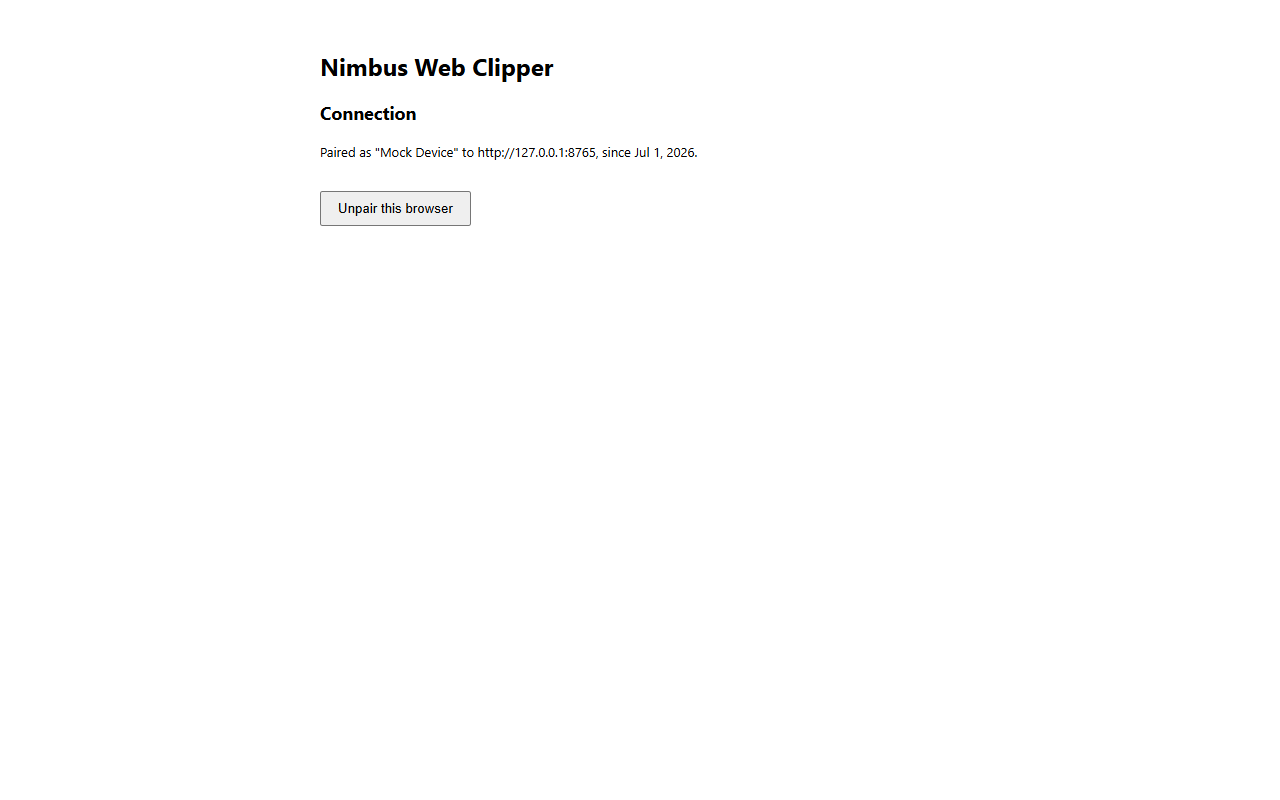
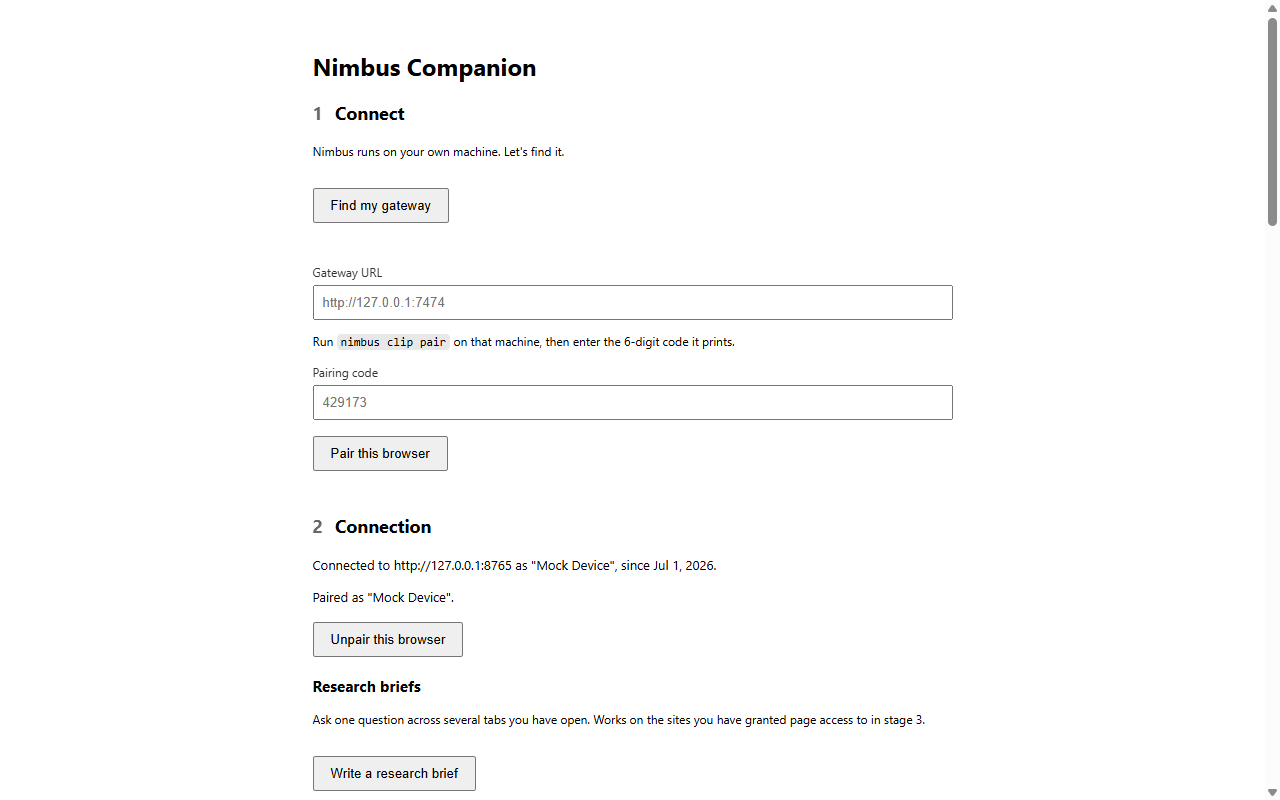
chore(brand): rename the extension to Nimbus Companion (#119)
"Nimbus Web Clipper" collided in every store search with Nimbus Web Inc's
unrelated "Web Clipper (Nimbus)" (~50k users). The new name keeps the tie to
the Nimbus gateway, leaves the clipper category, and matches what C1-C7 made
of the extension: clipping is one capability among several.

The rename is the manifest `name` + description, the popup/options headings,
the store listing + privacy policy, workflow/release titles, docs prose, and
regenerated promo tiles and store screenshots.

Deliberately unchanged: the Firefox gecko id (changing it orphans installs),
the Chrome item id, the repo slug, package name, Sonar key and zip names, and
"clip" as a verb. ROADMAP.md records the decision and the alternatives.

diff --git a/test/unit/manifest.test.ts b/test/unit/manifest.test.ts
@@ -6,7 +6,12 @@ describe("composeManifest", () => {
     for (const target of BROWSER_TARGETS) {
       const m = composeManifest(target, "1.2.3");
       expect(m.manifest_version).toBe(3);
-      expect(m.name).toBe("Nimbus Web Clipper");
+      expect(m.name).toBe("Nimbus Companion");
+      expect(m.description).toBe(
+        "Bring your local-first Nimbus index to the page you're on — clip it, ask about it, see what Nimbus already knows.",
+      );
+      // The Chrome Web Store rejects an upload whose description exceeds 132 characters.
+      expect(m.description.length).toBeLessThanOrEqual(132);
       expect(m.version).toBe("1.2.3");
       // Loopback only — the extension never talks to a remote origin (I6).
       expect(m.host_permissions).toEqual(["http://127.0.0.1/*", "http://localhost/*"]);

diff --git a/src/manifest/manifest.ts b/src/manifest/manifest.ts
@@ -78,10 +78,10 @@ export interface WebClipperManifest {
 export function composeManifest(target: BrowserTarget, version: string): WebClipperManifest {
   const base = {
     manifest_version: 3 as const,
-    name: "Nimbus Web Clipper",
+    name: "Nimbus Companion",
     version,
     description:
-      "Clip articles and selections from the browser into your local-first Nimbus index.",
+      "Bring your local-first Nimbus index to the page you're on — clip it, ask about it, see what Nimbus already knows.",
     // Minimal, capability-scoped: storage holds the paired bearer token; activeTab +
     // scripting let the popup capture the current page on user action (no broad host
     // access); alarms wakes the SW to drain the offline retry queue; contextMenus

diff --git a/src/options/options.html b/src/options/options.html
@@ -3,12 +3,12 @@
   <head>
     <meta charset="utf-8" />
     <meta name="viewport" content="width=device-width, initial-scale=1" />
-    <title>Nimbus Web Clipper — Options</title>
+    <title>Nimbus Companion — Options</title>
     <link rel="stylesheet" href="options.css" />
   </head>
   <body>
     <main class="options">
-      <h1>Nimbus Web Clipper</h1>
+      <h1>Nimbus Companion</h1>
 
       <section id="stage-connect" class="stage">
         <h2><span class="stage__num">1</span> Connect</h2>

diff --git a/scripts/gen-promo.ts b/scripts/gen-promo.ts
@@ -88,7 +88,7 @@ function html(s: TileSpec): string {
     <div class="tile">
       <div class="mark">${MARK}</div>
       <div class="copy">
-        <div class="title">Nimbus Web&nbsp;Clipper</div>
+        <div class="title">Nimbus Companion</div>
         <div class="tagline">Clip what you read into your private, local-first index.</div>
         <div class="chips">
           <span class="chip">Local-first</span>

diff --git a/src/popup/popup.html b/src/popup/popup.html
@@ -8,7 +8,7 @@
   </head>
   <body>
     <main class="popup">
-      <h1 class="popup__title">Nimbus Web Clipper</h1>
+      <h1 class="popup__title">Nimbus Companion</h1>
       <label class="popup__label" for="tags">Tags (comma-separated)</label>
       <input id="tags" class="popup__tags" type="text" placeholder="research, work" />
       <div class="popup__actions">

diff --git a/scripts/gen-icons.py b/scripts/gen-icons.py
@@ -1,5 +1,5 @@
 #!/usr/bin/env python3
-"""Generate the Nimbus Web Clipper extension icons from scratch.
+"""Generate the Nimbus Companion extension icons from scratch.
 
 No third-party deps: shapes are rasterized with 4x supersampling and encoded to
 PNG via the stdlib `zlib`. Concept: a light Nimbus cloud + a bookmark/clip tag on

diff --git a/ROADMAP.md b/ROADMAP.md
@@ -1,4 +1,4 @@
-# Nimbus Web Clipper — Roadmap
+# Nimbus Companion — Roadmap
 
 > **Status:** a direction, not a commitment. This roadmap is vision-first: it
 > states the end-state we're building toward, then breaks it into phases detailed
@@ -47,7 +47,7 @@ Most clippers are filing cabinets. You clip a page, it drops into a folder or a
 tag you never open again, and the value of the capture decays to zero the moment
 the tab closes. The clipper becomes a place things go to be forgotten.
 
-Nimbus Web Clipper is the opposite. A clip is not filed — it is **fed to a
+Nimbus Companion is the opposite. A clip is not filed — it is **fed to a
 private recall engine** that runs on your machine. What you save today makes what
 you read tomorrow smarter: the moment you land on a page, the extension can tell
 you *you've read three things about this before*, surface them in-context, and let
@@ -68,9 +68,9 @@ The clipper is a decent clipper. It is also in a fight it cannot win:
   AGPL licence, plus OCR, PDFs, mobile and an MCP server. Being a slightly
   better clipper than those two is not a plan.
 - **The name is already taken.** "Web Clipper (Nimbus)" by Nimbus Web Inc has
-  roughly 50,000 users, so we collide with it in every store search. What this
-  extension should be *called* after the reframe is an **open question**, not a
-  decision taken here.
+  roughly 50,000 users, so as "Nimbus Web Clipper" we collided with it in every
+  store search. That is why the extension is now **Nimbus Companion** — see
+  [The name](#the-name--decided-nimbus-companion) below.
 - **The cross-corpus idea isn't unique either.** SurfSense (~15.7k stars) has a
   comparable architecture — Gmail/Slack/Jira/Confluence/Linear/GitHub
   connectors and an MCP server. Execution and the local-first guarantee are the
@@ -81,39 +81,43 @@ agents over an index that already spans your pull requests, builds, issues and
 docs. No clipper has that. Reaching it from the page you are already on is the
 product.
 
-### The name — proposed, not decided
+### The name — decided: Nimbus Companion
 
-**Status: a proposal. This roadmap renames nothing.** It records the option and
-its constraints so the decision is taken deliberately rather than by drift.
+**Status: decided 2026-09-21.** The extension publishes as **Nimbus Companion**;
+until then it was "Nimbus Web Clipper".
 
-The collision is real and it is not ours to win by argument. "Web Clipper
+The collision was real and not ours to win by argument. "Web Clipper
 (Nimbus)" is published by **Nimbus Web Inc**, a Delaware company: roughly 50,000
 users, 154 ratings, 3.4 stars, last updated 2026-04-30. They hold the name in
-this category.
+this category, and the clash is with *Nimbus* sitting next to *Clipper*, not
+with one exact string — so the new name keeps the tie to the Nimbus gateway and
+leaves the clipper category. It also fits the reframe above: capture is one
+capability of the client, not the product.
 
-Under consideration: **"Nimbus — Change Impact Agent"** — the job, not the
-mechanism. That is the shipped precedent from the editor side, where
-[`nimbus-vscode`](https://github.com/nimbus-agent/nimbus-vscode) publishes as
-*Nimbus — On-Call & Incident Agent*; two surfaces of one gateway should read as
-siblings. Alternatives considered and not discarded: "PR & Build Context Agent",
-"Merge Readiness Agent", "Blast Radius".
+Considered and not taken: "Nimbus — Change Impact Agent" (the job-not-mechanism
+pattern [`nimbus-vscode`](https://github.com/nimbus-agent/nimbus-vscode) uses as
+*Nimbus — On-Call & Incident Agent*), "PR & Build Context Agent", "Merge
+Readiness Agent", "Blast Radius".
 
-Two things constrain any rename:
+What the rename is, and what it deliberately is not:
 
+- **It is the `name`, the UI headings and the store-listing copy — nothing
+  deeper.** "Clip" survives as a verb ("Clip to Nimbus", the clip commands, the
+  gateway's `nimbus clip pair` and `/v1/clips`): those name an action, not the
+  product.
 - **`FIREFOX_ADDON_ID` must not change.** `src/manifest/manifest.ts:17` pins it
   to the literal `web-clipper@nimbus-agent.dev`, and Firefox keys an install to
-  that gecko id — changing it orphans every existing Firefox install. A rename
-  is therefore a `name` change plus store-listing copy, and nothing deeper: the
-  Chrome item id is derived from the publisher's public key, not from `name`, so
-  it survives a rename untouched.
-- **Sequencing, re-opened: Nimbus#1006 closed 2026-08-11.** This bullet's
-  premise was that relaunching under a new name while **Nimbus#1006** was live
-  (the store listings claim clips stay local while `web_clip` routed to OpenAI
-  embeddings when a key was set) would *increase* exposure: a fresh listing
-  invites fresh scrutiny of a privacy claim we could not back. That premise no
-  longer holds — #1006 is closed. Whether the sequencing argument still stands
-  on some other ground, or the rename is now unblocked, needs its own re-read.
-  **Not decided here:** the rename is not this slice's call to make.
+  that gecko id — changing it orphans every existing Firefox install. The Chrome
+  item id is derived from the publisher's public key, not from `name`, so it
+  survives a rename untouched.
+- **The repo slug, package name, Sonar key and zip names stay
+  `nimbus-web-clipper`.** None of them is visible on a store page; renaming the
+  repo is separate outward-facing work.
+- **Sequencing is no longer a blocker.** The earlier worry — relaunching under a
+  new name while **Nimbus#1006** was live (listings claimed clips stay local
+  while `web_clip` routed to OpenAI embeddings when a key was set) would invite
+  scrutiny of a privacy claim we could not back — lapsed when #1006 closed on
+  2026-08-11.
 
 ### Why this is credible, not aspirational
 

diff --git a/store/listing.md b/store/listing.md
@@ -1,11 +1,11 @@
-# Store Listing Copy — Nimbus Web Clipper
+# Store Listing Copy — Nimbus Companion
 
 Single source of truth for the Chrome Web Store and AMO listing fields. Paste
 these verbatim into each dashboard; keep this file in sync with any dashboard edit.
 
 ## Name
 
-Nimbus Web Clipper
+Nimbus Companion
 
 ## Short summary
 
@@ -28,7 +28,7 @@ surfacing what that index already holds about the page.
 Save what you read into your private, local-first Nimbus index — straight from
 the browser.
 
-Nimbus Web Clipper clips the readable article or your current text selection into
+Nimbus Companion clips the readable article or your current text selection into
 Nimbus, where it becomes searchable alongside your Drive files, email, and
 bookmarks. It also works the other way round: on a page Nimbus already knows — a
 pull request, a build, an issue — it recognises where you are, finds the matching

diff --git a/store/publishing.md b/store/publishing.md
@@ -35,6 +35,14 @@ Build the artifacts locally (`bun run build && bun run package`), then:
 The first submission of each store must be done by hand; every release after that
 is automated.
 
+**Renaming the extension.** The automated upload carries the manifest `name`, so
+the Chrome listing title follows the next release on its own. Everything else on
+a listing is dashboard-only: the AMO listing name, and both stores' summary and
+description, must be re-pasted by hand from [`listing.md`](./listing.md). The zip
+names, the gecko id (`web-clipper@nimbus-agent.dev`) and the store URLs' slugs
+keep the original `nimbus-web-clipper` spelling on purpose — they are identifiers,
+not branding, and the gecko id can never change without orphaning installs.
+
 ### 3. Credentials
 
 - **Chrome (Google OAuth):** follow

diff --git a/CHANGELOG.md b/CHANGELOG.md
@@ -8,6 +8,16 @@ Releases are tag-driven (`vX.Y.Z`); see [README](./README.md#releasing) and `pub
 
 ## [Unreleased]
 
+### Changed
+
+- **Renamed to Nimbus Companion.** The extension was "Nimbus Web Clipper", which
+  collided in every store search with Nimbus Web Inc's unrelated "Web Clipper
+  (Nimbus)". The new name also says what the extension became: it recognises the
+  page you are on and runs your gateway's agents against it, and clipping is one
+  capability among several. Nothing else moves — the Firefox add-on id, the
+  Chrome item id, your pairing and your settings are all unchanged, so an
+  installed copy simply updates under the new name.
+
 ### Added
 
 - **The deploy-readiness bind form stops guessing.** It now asks the gateway

diff --git a/.claude/commands/clipper-mv3-client.md b/.claude/commands/clipper-mv3-client.md
@@ -1,7 +1,7 @@
 ---
 name: clipper-mv3-client
 description: >
-  The non-obvious mechanics of the Nimbus Web Clipper: which gates prove what and which
+  The non-obvious mechanics of the Nimbus Companion: which gates prove what and which
   pass while proving nothing, the coupled sites nothing enforces, the MV3 traps that
   exist only as a comment inside one file, and which half of the pairing/token contract
   belongs to the gateway repo. Use when asked "what should I run before pushing", "why
@@ -10,7 +10,7 @@ description: >
   `src/manifest/manifest.ts`, `esbuild.mjs`, `scripts/`, or `.github/workflows/`.
 ---
 
-# Nimbus Web Clipper — the MV3 client
+# Nimbus Companion — the MV3 client
 
 ## What this skill is not
 

diff --git a/CLAUDE.md b/CLAUDE.md
@@ -1,6 +1,12 @@
-# Nimbus Web Clipper — Claude Code Context
+# Nimbus Companion — Claude Code Context
 
 ## What this is
+
+**Nimbus Companion** is the published name (it was "Nimbus Web Clipper" until a
+store-search collision with Nimbus Web Inc's "Web Clipper (Nimbus)" forced a
+rename — see `ROADMAP.md` § The name). The repo slug, package name, Sonar key,
+zip names and the Firefox gecko id keep the old `nimbus-web-clipper` /
+`web-clipper@…` spelling **on purpose**: they are identifiers, not branding.
 
 `nimbus-web-clipper` is a Chrome + Firefox **MV3 browser extension** that clips
 web pages (readable article or selection) into the user's local-first
